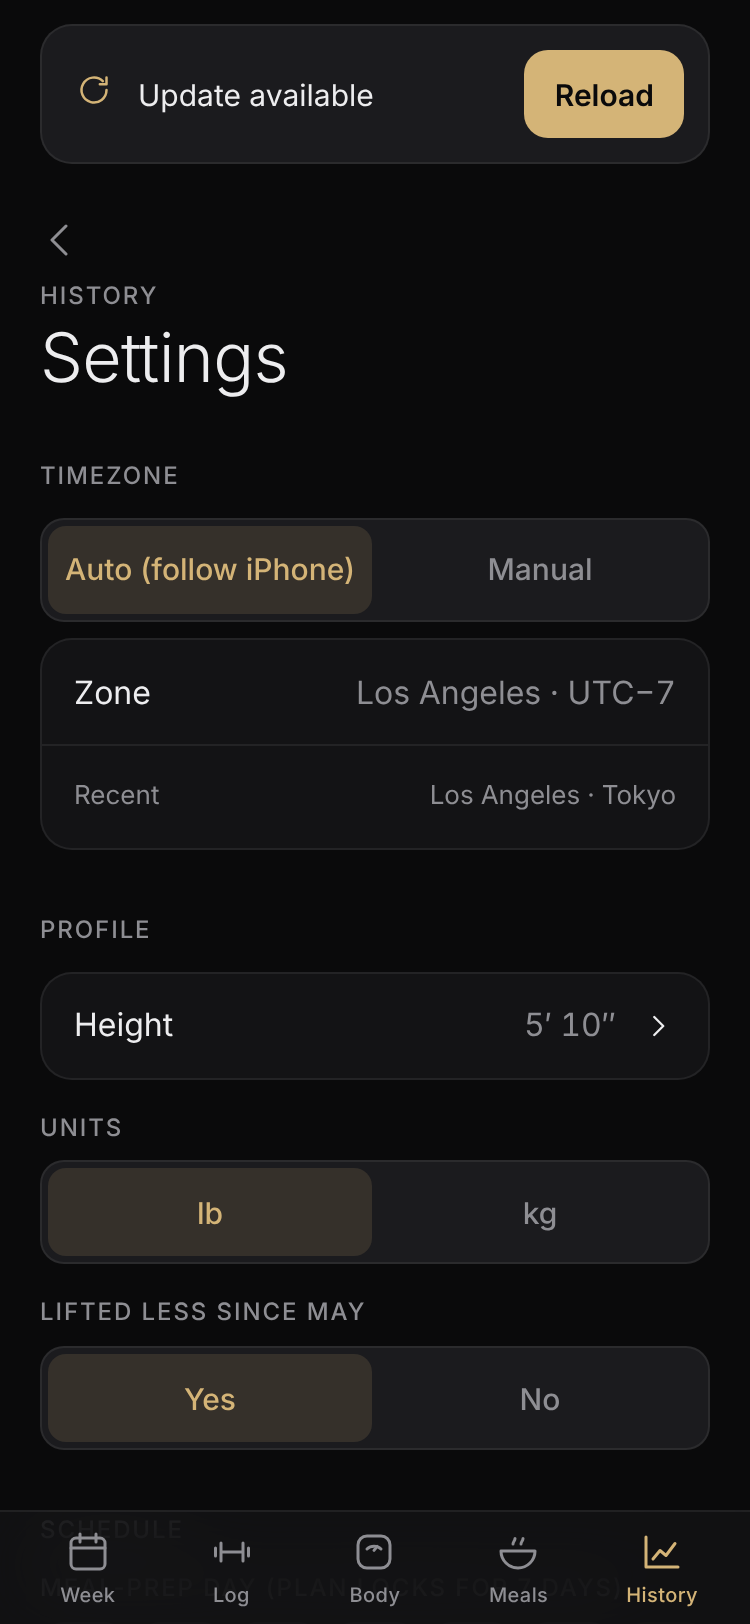
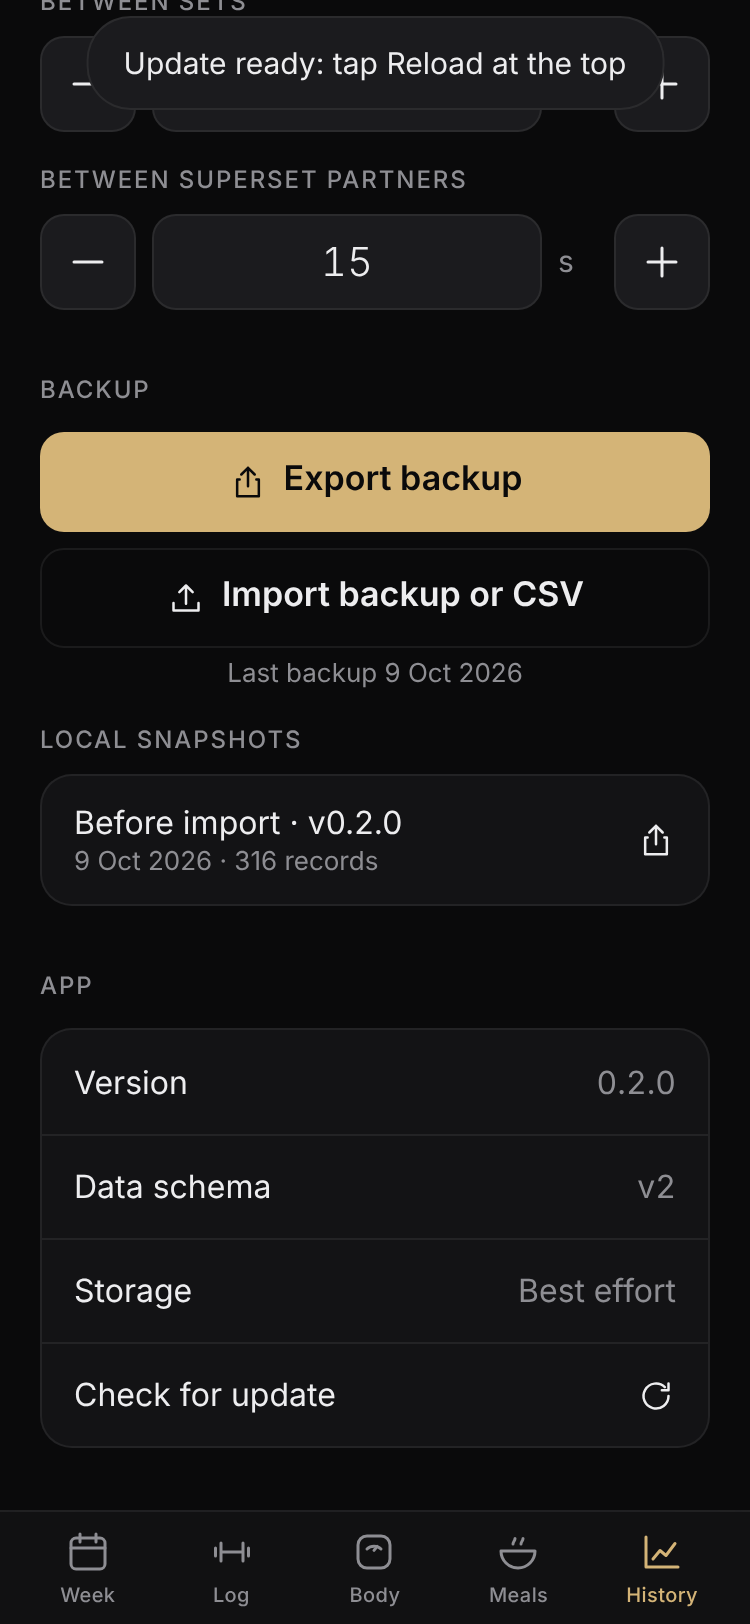
Check for update: wait for a found update to finish downloading
registration.update() resolves before a new worker is installed, so the
button could report 'latest version' while an update was still
downloading. Wait for the installing worker to settle, then report.
The e2e now drives the Settings button for both outcomes, and waits for
the chart's post-mount redraw before reading its geometry.

Claude-Session: https://claude.ai/code/session_0124SxiPomaH4urvYjceAnmx

diff --git a/app/sw-client.js b/app/sw-client.js
@@ -30,12 +30,26 @@ export function updateWaiting() {
   return Boolean(registration && registration.waiting && navigator.serviceWorker.controller);
 }
 
-export async function checkForUpdate() {
+// Resolves true when a new version is installed and waiting for Reload.
+// update() returns before a found update finishes downloading, so wait for
+// the installing worker to settle instead of reporting "latest" too early.
+export async function checkForUpdate({ timeoutMs = 30000 } = {}) {
   if (!registration) return false;
   try {
     await registration.update();
   } catch {
     return false;
+  }
+  const worker = registration.installing;
+  if (worker) {
+    await new Promise((resolve) => {
+      const settle = () => {
+        if (worker.state !== 'installing') resolve();
+      };
+      worker.addEventListener('statechange', settle);
+      setTimeout(resolve, timeoutMs);
+      settle();
+    });
   }
   return updateWaiting();
 }

diff --git a/app/main.js b/app/main.js
@@ -63,10 +63,14 @@ const ctx = {
     render({ keepScroll: true });
   },
   async checkUpdate() {
-    toast('Checking for updates…', 1500);
+    toast('Checking for updates…', 30000);
     const ready = await checkForUpdate();
-    if (ready) showUpdateReady();
-    else toast(`You’re on the latest version (${APP_VERSION})`);
+    if (ready) {
+      showUpdateReady();
+      toast('Update ready: tap Reload at the top');
+    } else {
+      toast(`You’re on the latest version (${APP_VERSION})`);
+    }
   },
 };
 
